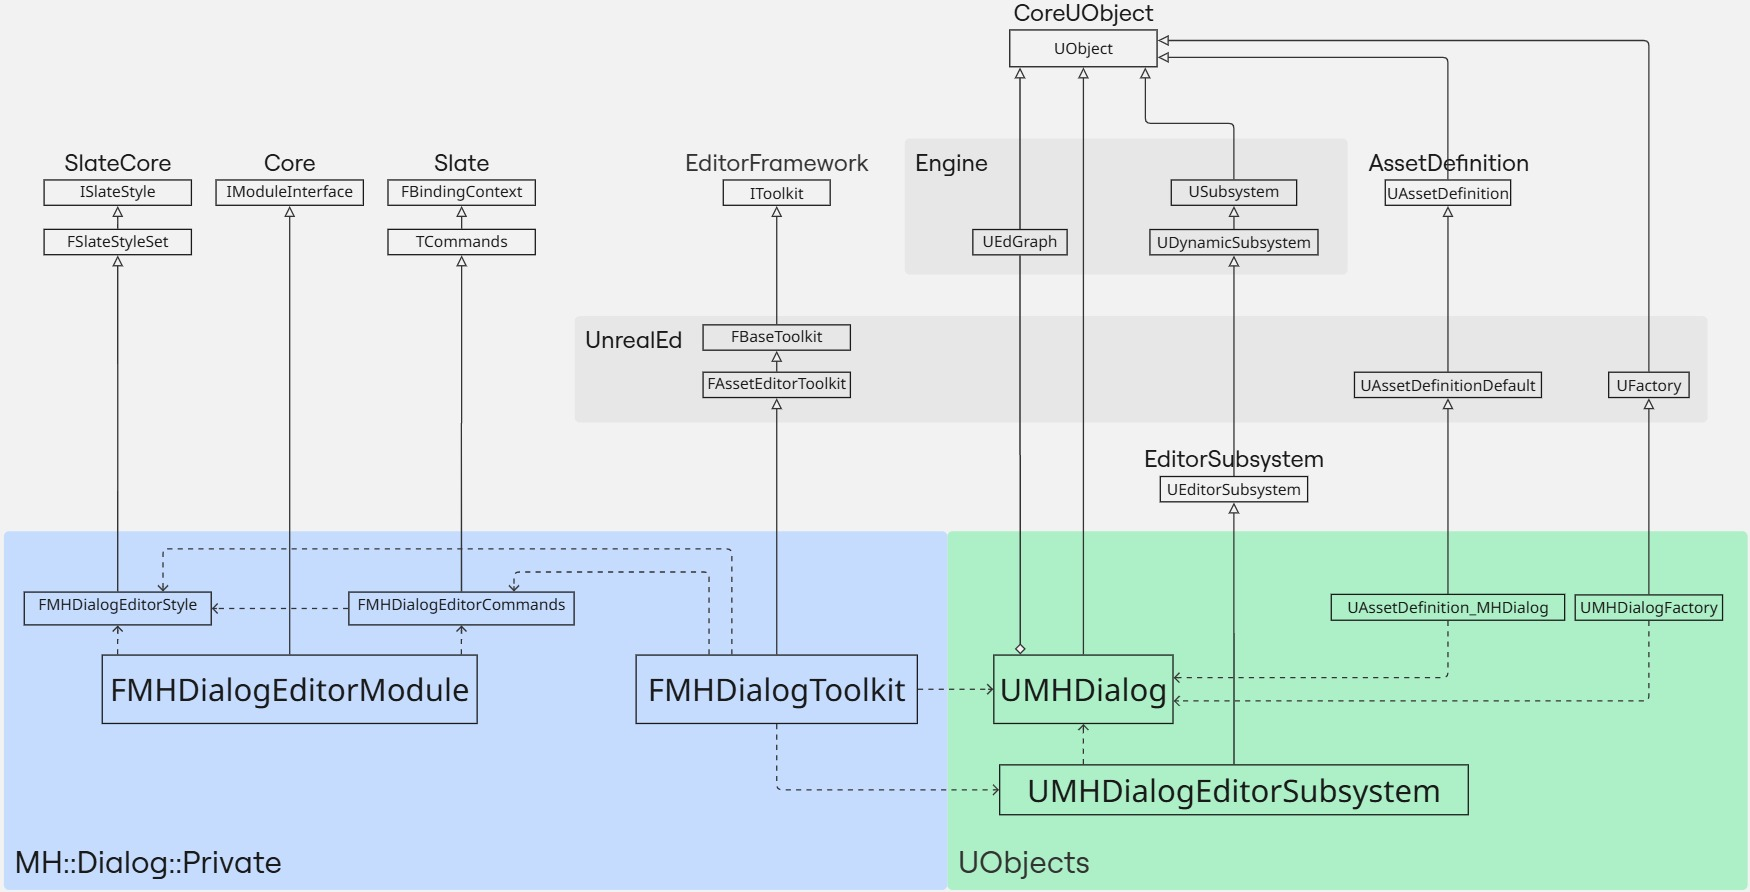
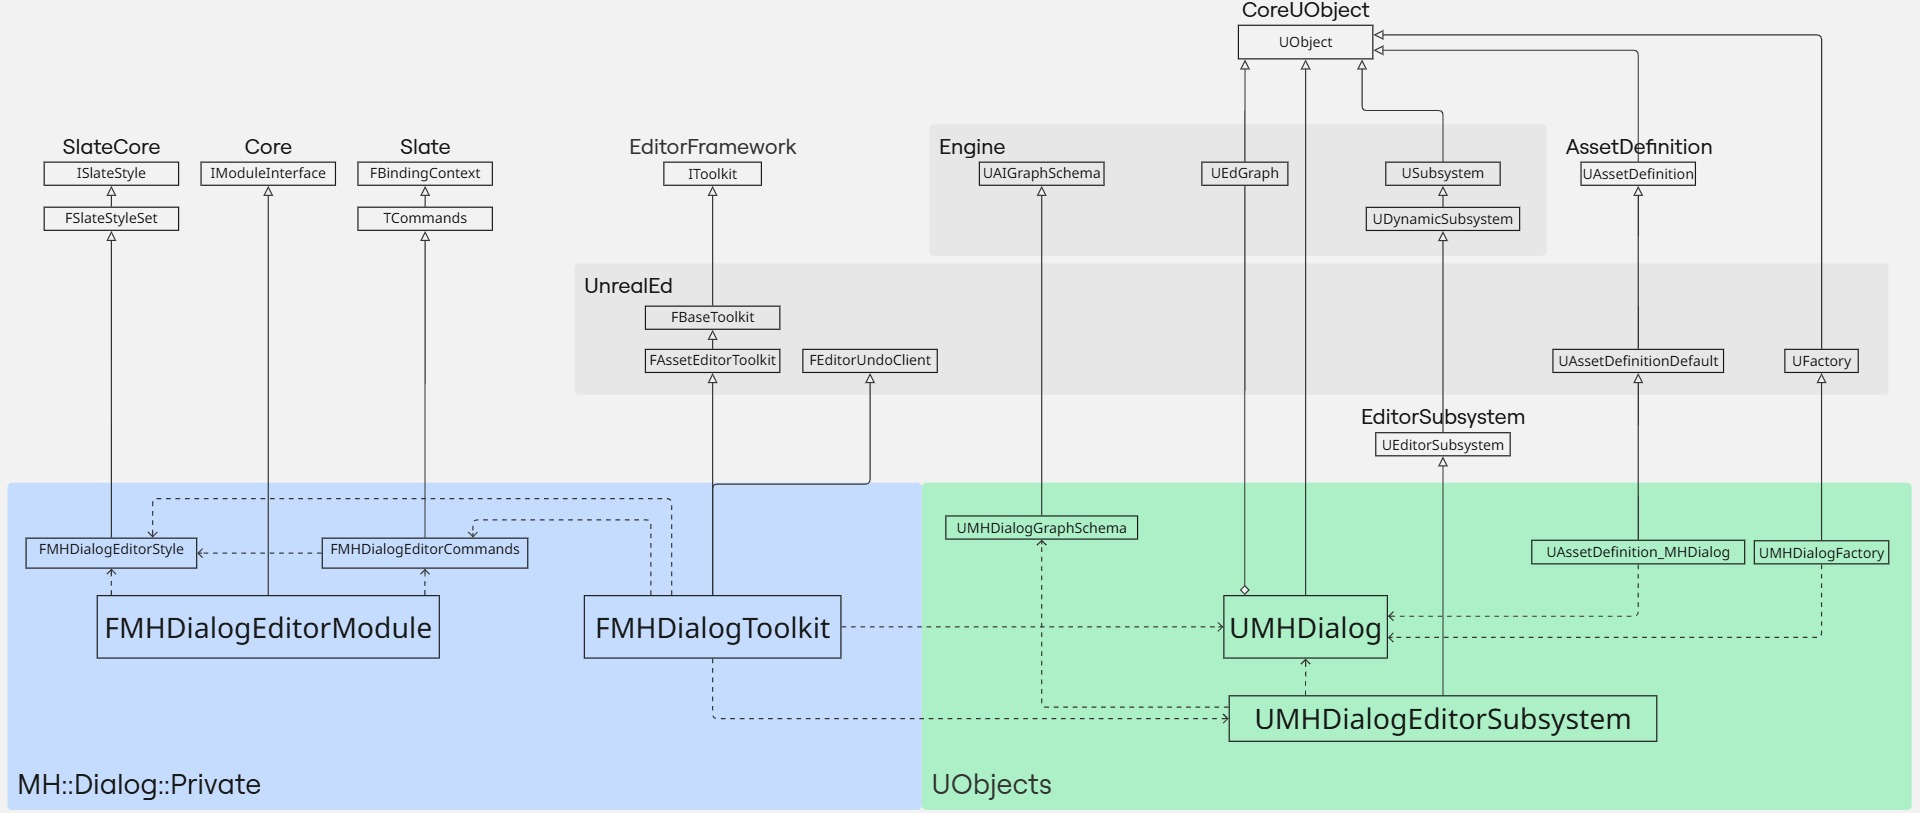
add graph schema to create node from context menu

diff --git a/Source/MHDialogEditor/Private/Toolkit/MHDialogToolkit.cpp b/Source/MHDialogEditor/Private/Toolkit/MHDialogToolkit.cpp
@@ -37,6 +37,24 @@ FLinearColor FMHDialogToolkit::GetWorldCentricTabColorScale() const
 	return Colors::Asset::WorldCentricTabColorScale;
 }
 
+FMHDialogToolkit::FMHDialogToolkit()
+{
+	UEditorEngine* Editor = Cast<UEditorEngine>(GEngine);
+	if (IsValid(Editor))
+	{
+		Editor->RegisterForUndo(this);
+	}
+}
+
+FMHDialogToolkit::~FMHDialogToolkit()
+{
+	UEditorEngine* Editor = Cast<UEditorEngine>(GEngine);
+	if (IsValid(Editor))
+	{
+		Editor->RegisterForUndo(this);
+	}
+}
+
 void FMHDialogToolkit::InitDialogEditor(const EToolkitMode::Type Mode,
 										const TSharedPtr<class IToolkitHost>& InitToolkitHost,
 										UMHDialog* Dialog)
@@ -81,6 +99,34 @@ void FMHDialogToolkit::UnregisterTabSpawners(const TSharedRef<FTabManager>& InTa
 	FAssetEditorToolkit::UnregisterTabSpawners(InTabManager);
 	InTabManager->UnregisterTabSpawner(DetailsTabId);
 	InTabManager->UnregisterTabSpawner(GraphTabId);
+}
+
+void FMHDialogToolkit::PostUndo(bool bSuccess)
+{
+	if (bSuccess)
+	{
+		// Clear selection, to avoid holding refs to nodes that go away
+		if (TSharedPtr<SGraphEditor> CurrentGraphEditor = UpdateGraphEdPtr.Pin())
+		{
+			CurrentGraphEditor->ClearSelectionSet();
+			CurrentGraphEditor->NotifyGraphChanged();
+		}
+		FSlateApplication::Get().DismissAllMenus();
+	}
+}
+
+void FMHDialogToolkit::PostRedo(bool bSuccess)
+{
+	if (bSuccess)
+	{
+		// Clear selection, to avoid holding refs to nodes that go away
+		if (TSharedPtr<SGraphEditor> CurrentGraphEditor = UpdateGraphEdPtr.Pin())
+		{
+			CurrentGraphEditor->ClearSelectionSet();
+			CurrentGraphEditor->NotifyGraphChanged();
+		}
+		FSlateApplication::Get().DismissAllMenus();
+	}
 }
 
 void FMHDialogToolkit::CreateWidgets()
@@ -171,7 +217,7 @@ TSharedRef<SDockTab> FMHDialogToolkit::SpawnTab_Graph(const FSpawnTabArgs& Args)
 	return SNew(SDockTab)
 		.Label(LOCTEXT("GraphLabel", "Dialogue Graph"))
 		[
-			SNew(SGraphEditor)
+			SAssignNew(UpdateGraphEdPtr, SGraphEditor)
 			.Appearance(AppearanceInfo)
 			.GraphToEdit(DialogAsset->Graph)
 		];

diff --git a/Source/MHDialogEditor/Private/Toolkit/MHDialogToolkit.h b/Source/MHDialogEditor/Private/Toolkit/MHDialogToolkit.h
@@ -7,6 +7,7 @@
 class UMHDialog;
 class IDetailsView;
 class IToolkitHost;
+class SGraphEditor;
 
 namespace MH::Dialog::Private
 {
@@ -14,9 +15,12 @@ namespace MH::Dialog::Private
 /*
  * The toolkit is supposed to act only as the UI manager
  */
-class FMHDialogToolkit final : public FAssetEditorToolkit
+class FMHDialogToolkit final : public FAssetEditorToolkit, public FEditorUndoClient
 {
   public:
+	FMHDialogToolkit();
+	virtual ~FMHDialogToolkit();
+
 	void InitDialogEditor(const EToolkitMode::Type Mode, const TSharedPtr<IToolkitHost>& InitToolkitHost, UMHDialog* Dialog);
 
 	//~ Begin FAssetEditorToolkit interface
@@ -29,6 +33,11 @@ class FMHDialogToolkit final : public FAssetEditorToolkit
 	virtual void UnregisterTabSpawners(const TSharedRef<FTabManager>& TabManager) override;
 	//~ End FAssetEditorToolkit interface
 
+	//~ Begin FEditorUndoClient Interface
+	virtual void PostUndo(bool bSuccess) override;
+	virtual void PostRedo(bool bSuccess) override;
+	// End of FEditorUndoClient
+
   private:
 	static const FName AppIdentifier;
 	static const FName DetailsTabId;
@@ -37,6 +46,7 @@ class FMHDialogToolkit final : public FAssetEditorToolkit
 	TObjectPtr<UMHDialog> DialogAsset;
 
 	TSharedPtr<IDetailsView> DialogAssetDetailsView;
+	TWeakPtr<SGraphEditor> UpdateGraphEdPtr;
 
 	void CreateWidgets();
 	void RegisterToolbar();

diff --git a/Source/MHDialogEditor/Private/Graph/MHDialogGraphSchema.cpp b/Source/MHDialogEditor/Private/Graph/MHDialogGraphSchema.cpp
@@ -1,0 +1,34 @@
+// created by MetalHeart
+
+#include "Graph/MHDialogGraphSchema.h"
+
+#define LOCTEXT_NAMESPACE "MHDialogGraphSchema"
+
+void UMHDialogGraphSchema::GetGraphContextActions(FGraphContextMenuBuilder& ContextMenuBuilder) const
+{
+	{
+		auto Action = MakeShared<FMHDialogGraphSchemaAction_NewNode>(LOCTEXT("NewNodeCategory", "Node"),	//
+																	 LOCTEXT("NewNodeAction", "Add Node"),	//
+																	 LOCTEXT("NewNodeAction_Tooltip", "Adds a dialog node"),
+																	 /*InGrouping*/ 0);
+		ContextMenuBuilder.AddAction(Action);
+	}
+}
+
+UEdGraphNode* FMHDialogGraphSchemaAction_NewNode::PerformAction(UEdGraph* ParentGraph,
+																UEdGraphPin* FromPin,
+																const FVector2f& Location,
+																bool bSelectNewNode)
+{
+	FGraphNodeCreator<UEdGraphNode> NodeCreator(*ParentGraph);
+	const FScopedTransaction Transaction(LOCTEXT("NewNode", "Dialog Editor: New Node"));
+	ParentGraph->Modify();
+
+	UEdGraphNode* Node = NodeCreator.CreateNode(/*bCreatedByUser*/ true);
+	Node->SetPosition(Location);
+	NodeCreator.Finalize();
+
+	return Node;
+}
+
+#undef LOCTEXT_NAMESPACE

diff --git a/Source/MHDialogEditor/Private/Graph/MHDialogGraphSchema.h b/Source/MHDialogEditor/Private/Graph/MHDialogGraphSchema.h
@@ -1,0 +1,35 @@
+// created by MetalHeart
+
+#pragma once
+
+#include "CoreMinimal.h"
+#include "EdGraph/EdGraphSchema.h"
+
+#include "MHDialogGraphSchema.generated.h"
+
+UCLASS()
+class UMHDialogGraphSchema final : public UEdGraphSchema
+{
+	GENERATED_BODY()
+
+  public:
+	//~ Begin UEdGraphSchema interface
+	virtual void GetGraphContextActions(FGraphContextMenuBuilder& ContextMenuBuilder) const override;
+	//~ End UEdGraphSchema interface
+};
+
+USTRUCT()
+struct FMHDialogGraphSchemaAction_NewNode final : public FEdGraphSchemaAction
+{
+	GENERATED_BODY()
+
+	// Inherit the base class's constructors
+	using FEdGraphSchemaAction::FEdGraphSchemaAction;
+
+	//~Begin FEdGraphSchemaAction interface
+	virtual UEdGraphNode* PerformAction(class UEdGraph* ParentGraph,
+										UEdGraphPin* FromPin,
+										const FVector2f& Location,
+										bool bSelectNewNode = true) override;
+	//~End FEdGraphSchemaAction interface
+};

diff --git a/Source/MHDialogEditor/Private/MHDialogEditorSubsystem.cpp b/Source/MHDialogEditor/Private/MHDialogEditorSubsystem.cpp
@@ -3,7 +3,7 @@
 #include "MHDialogEditorSubsystem.h"
 
 #include "EdGraph/EdGraph.h"
-#include "EdGraph/EdGraphSchema.h"
+#include "Graph/MHDialogGraphSchema.h"
 #include "Kismet2/BlueprintEditorUtils.h"
 #include "MHDialog.h"
 
@@ -14,7 +14,7 @@ void UMHDialogEditorSubsystem::InitAsset(UMHDialog* Asset) const
 		Asset->Graph = FBlueprintEditorUtils::CreateNewGraph(Asset,	 //
 															 NAME_None,
 															 UEdGraph::StaticClass(),
-															 UEdGraphSchema::StaticClass());
+															 UMHDialogGraphSchema::StaticClass());
 		Asset->Graph->GetSchema()->CreateDefaultNodesForGraph(*Asset->Graph);
 	}
 }
